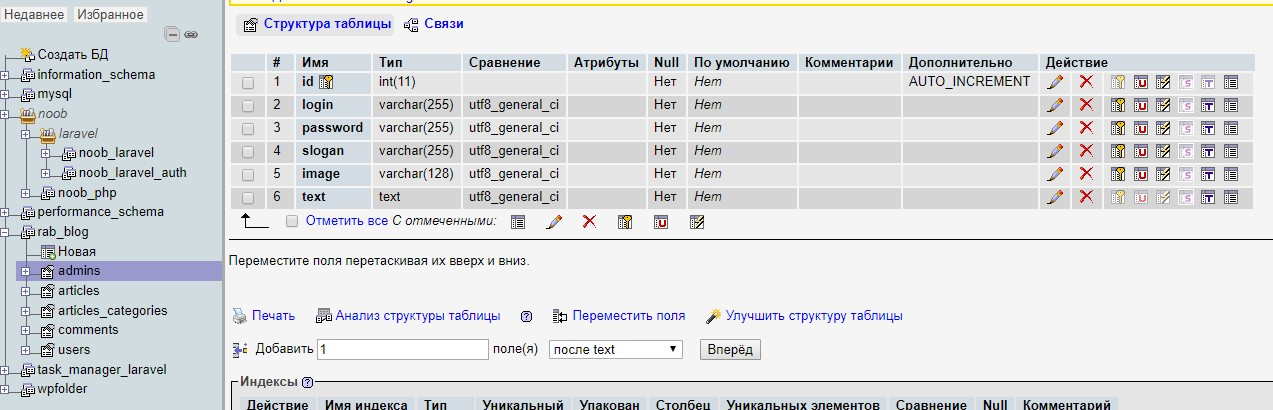
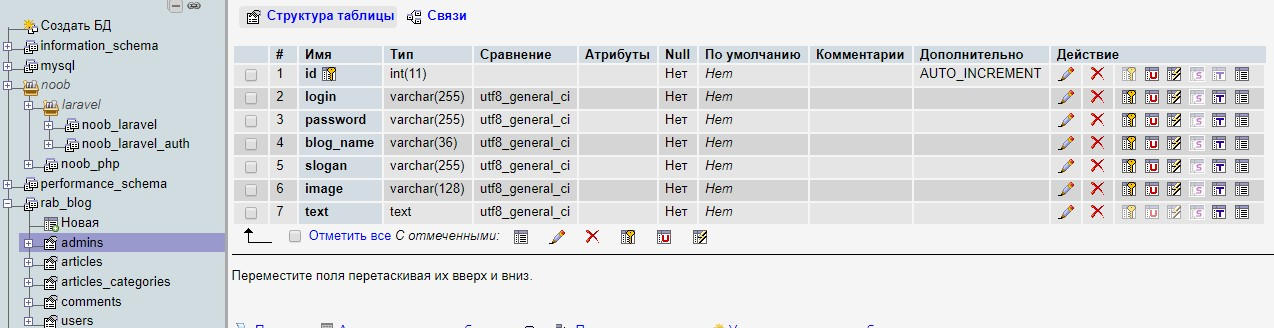
Изменения: - Небольшие изменения, связанные с прохождением процесса валидации html - Появление возможности изменять название блога в панели администратора

Changed region(s): [[0.0, 0.0, 1.0, 1.0], [0.5208, 0.8232, 0.6127, 0.8841]]

diff --git a/media/css/style.css b/media/css/style.css
@@ -163,12 +163,12 @@ body {
   margin-left: 125px;
   padding-left: 21px;
   position: relative}
-  .articles .article .article__info > a {
+  .articles .article .article__info > h3 > a {
     color: black;
     font-size: 18px;
     font-weight: normal;
     text-decoration: none; }
-    .articles .article .article__info > a:hover {
+    .articles .article .article__info > h3 > a:hover {
       border-bottom: 2px solid #333; }
   .articles .article .article__info > .article__info__meta {
     font-size: 14px;

diff --git a/pages/adminp/blogname_change.php b/pages/adminp/blogname_change.php
@@ -1,0 +1,112 @@
+<?php
+
+require "../../includes/config.php";
+
+?>
+
+    <html lang="en">
+    <head>
+        <meta charset="UTF-8">
+        <title>Измненеие названия блога</title>
+
+        <!-- Bootstrap Grid -->
+        <link rel="stylesheet" type="text/css" href="../../media/assets/bootstrap-grid-only/css/grid12.css">
+
+        <!-- Google Fonts -->
+        <link href="https://fonts.googleapis.com/css?family=Roboto:300,400,500,700" rel="stylesheet">
+
+        <!-- Custom -->
+        <link rel="stylesheet" type="text/css" href="../../media/css/style.css">
+        <link rel="stylesheet" type="text/css" href="../../media/css/adminp.css">
+
+
+    </head>
+    <body>
+
+
+
+    </body>
+    </html>
+
+
+<?php
+
+$login=$_SESSION['logged_admin']['login'];
+
+$admin=mysqli_query($connection,"SELECT blog_name FROM admins  WHERE login='$login'");
+
+$adm = mysqli_fetch_assoc($admin);
+
+?>
+
+
+<?php if(isset($_SESSION['logged_admin'])) : ?>
+
+    <a href="adminka.php">&laquo;Назад</a>
+    <h1>Удаление категории</h1>
+    <form class="form form_adminka" method="POST" action="blogname_change.php">
+        <?php
+
+        $data=$_POST;
+
+        if (isset($data['do_post'])) {
+
+
+            $errors = array();
+
+
+            if ($data['blog_name'] == '') {
+                $errors[] = 'Укажите новое название блога!';
+            }
+
+
+
+
+
+
+            if (empty($errors)) {
+
+
+                $t_blog_name=trim($data['blog_name']);
+
+
+                mysqli_query($connection, "UPDATE admins SET blog_name='$t_blog_name' WHERE login='$login'");
+
+
+
+
+                echo '<span style="color: green; font-weight: bold;
+                                                            margin-bottom: 10px; display: block;">Новое название ващего блога - "'.$data['blog_name'].'"</span>';
+
+                ?>
+                <meta http-equiv="refresh" content="1">
+                <?php
+
+            } else {
+                echo '<span style="color: red; font-weight: bold;
+                                                            margin-bottom: 10px; display: block;">' . $errors['0'] . '</span>';
+
+            }
+        }
+
+        ?>
+
+
+        <div class="form__group">
+            <div class="row">
+                <div class="col-md-6">
+                    <input type="text" autocomplete="off" class="form__control" required name="blog_name"
+                           placeholder="Название блога" value="<?php echo $adm['blog_name']; ?>">
+                </div>
+            </div>
+        </div>
+
+        <div class="form__group">
+            <input type="submit" class="form__control" name="do_post" value="Изменить название">
+        </div>
+    </form>
+
+<?php else : ?>
+    <a href="../../pages/adminp/adminka.php">Авторизуйтесь</a>
+    <br>
+<?php endif; ?>

diff --git a/pages/adminp/aboutme_change.php b/pages/adminp/aboutme_change.php
@@ -32,9 +32,9 @@ require "../../includes/config.php";
 <?php
 $login=$_SESSION['logged_admin']['login'];
 
-$article=mysqli_query($connection,"SELECT slogan,image,text FROM admins  WHERE login='$login'");
+$admin=mysqli_query($connection,"SELECT slogan,image,text FROM admins  WHERE login='$login'");
 
-$art = mysqli_fetch_assoc($article);
+$adm = mysqli_fetch_assoc($admin);
 
 ?>
 
@@ -111,7 +111,7 @@ $art = mysqli_fetch_assoc($article);
             <div class="row">
                 <div class="col-md-6">
                     <input type="text" autocomplete="off" class="form__control" required name="title"
-                           placeholder="Ваш девиз" value="<?php echo $art['slogan'] ?>">
+                           placeholder="Ваш девиз" value="<?php echo $adm['slogan'] ?>">
                 </div>
             </div>
         </div>
@@ -120,14 +120,14 @@ $art = mysqli_fetch_assoc($article);
             <div class="row">
                 <div class="col-md-6">
                     <input type="text" autocomplete="off" class="form__control" required name="image"
-                           placeholder="Название изображения c расширением из папки static/images" value="<?php echo $art['image'] ?>">
+                           placeholder="Название изображения c расширением из папки static/images" value="<?php echo $adm['image'] ?>">
                 </div>
             </div>
         </div>
 
         <div class="form__group">
         <textarea name="text" autocomplete="off" required class="form__control area_spec_admin"
-                  placeholder="Напишите людям о себе..."><?php echo $art['text'] ?></textarea>
+                  placeholder="Напишите людям о себе..."><?php echo $adm['text'] ?></textarea>
         </div>
         <div class="form__group">
             <input type="submit" class="form__control" name="do_post" value="Изменить информацию">

diff --git a/includes/sidebar.php b/includes/sidebar.php
@@ -32,7 +32,7 @@
 <div class="block">
     <h3>Мы_знаем</h3>
     <div class="block__content">
-        <script type="text/javascript" src="//ra.revolvermaps.com/0/0/6.js?i=02op3nb0crr&amp;m=7&amp;s=320&amp;c=e63100&amp;cr1=ffffff&amp;f=arial&amp;l=0&amp;bv=90&amp;lx=-420&amp;ly=420&amp;hi=20&amp;he=7&amp;hc=a8ddff&amp;rs=80" async="async"></script>
+        <script  src="//ra.revolvermaps.com/0/0/6.js?i=02op3nb0crr&amp;m=7&amp;s=320&amp;c=e63100&amp;cr1=ffffff&amp;f=arial&amp;l=0&amp;bv=90&amp;lx=-420&amp;ly=420&amp;hi=20&amp;he=7&amp;hc=a8ddff&amp;rs=80" async="async"></script>
     </div>
 </div>
 
@@ -52,7 +52,7 @@
                     <div class="article__image"
                          style="background-image: url(../static/images/<?php echo $art['image']; ?>);"></div>
                     <div class="article__info">
-                        <a href="../pages/article.php?id=<?php echo $art['id']; ?>"><?php echo $art['title'];?></a>
+                        <h3><a href="../pages/article.php?id=<?php echo $art['id']; ?>"><?php echo $art['title'];?></a></h3>
                         <div class="article__info__meta">
                             <?php
                             $art_cat=false;
@@ -97,7 +97,7 @@
                     <div class="article__image"
                          style="background-image: url(https://www.gravatar.com/avatar/<?php echo md5($comment['email']);?>s=125)"></div>
                     <div class="article__info">
-                        <a href="../pages/article.php?id=<?php echo $comment['articles_id']; ?>"><?php echo $comment['nickname'];?></a>
+                        <h3><a href="../pages/article.php?id=<?php echo $comment['articles_id']; ?>"><?php echo $comment['nickname'];?></a></h3>
                         <div class="article__info__meta">
 
 

diff --git a/pages/article.php b/pages/article.php
@@ -67,7 +67,7 @@ include '../static/scripts/main.php';
                                 <a><?php echo $art['views'];?> просмотров</a>
                                 <h3><?php echo $art['title'];?></h3>
                                 <div class="block__content">
-                                    <img class="image_large" src="../static/images/<?php echo $art['image'] ?>">
+                                    <img class="image_large" src="../static/images/<?php echo $art['image'] ?>" alt="Изображение статьи">
                                     <div class="full-text text_simple_article">
                                         <?php echo $art['text'];?>
                                     </div>
@@ -195,7 +195,7 @@ include '../static/scripts/main.php';
                                                 <div class="article__image"
                                                      style="background-image: url(https://www.gravatar.com/avatar/<?php echo md5($comment['email']); ?>s=125)"></div>
                                                 <div class="article__info">
-                                                    <a href="/pages/article.php?id=<?php echo $comment['articles_id']; ?>"><?php echo $comment['nickname']; ?></a>
+                                                    <h3><a href="/pages/article.php?id=<?php echo $comment['articles_id']; ?>"><?php echo $comment['nickname']; ?></a></h3>
                                                     <?php if(isset($_SESSION['logged_admin'])) : ?>
                                                         <div class="comment_time_ago_logadmin">
                                                             <?php echo 'опубликовано ' . showDate(strtotime($comment['pubdate'])) . ''; ?>

diff --git a/includes/head.php b/includes/head.php
@@ -1,5 +1,5 @@
 <!DOCTYPE html>
-<html lang="en">
+<html lang="ru">
 <head>
     <meta charset="UTF-8">
     <meta http-equiv="X-UA-Compatible" content="IE=edge" />
@@ -10,9 +10,9 @@
     <!-- jquery -->
     <script src="//ajax.googleapis.com/ajax/libs/jquery/3.1.0/jquery.min.js"></script>
     <!-- easing plugin ( optional ) -->
-    <script src="../static/libs/totop/easing.js" type="text/javascript"></script>
+    <script src="../static/libs/totop/easing.js" ></script>
     <!-- UItoTop plugin -->
-    <script src="../static/libs/totop/jquery.ui.totop.js" type="text/javascript"></script>
+    <script src="../static/libs/totop/jquery.ui.totop.js" ></script>
 
     <!-- Bootstrap Grid -->
     <link rel="stylesheet" href="//maxcdn.bootstrapcdn.com/bootstrap/3.2.0/css/bootstrap.min.css">
@@ -23,7 +23,7 @@
     <link href="https://fonts.googleapis.com/css?family=Roboto:300,400,500,700" rel="stylesheet">
 
     <!-- Custom -->
-    <script src="../static/scripts/main.js" type="text/javascript"></script>
+    <script src="../static/scripts/main.js" ></script>
 
     <!-- reCAPTCHA -->
     <script src='https://www.google.com/recaptcha/api.js'></script>
@@ -37,7 +37,7 @@
     <link rel="stylesheet" type="text/css" href="../media/css/addition.css">
 
     <!-- AutoToTopScrool -->
-    <link rel="stylesheet" media="screen,projection" href="../static/libs/totop/ui.totop.css" />
+    <link rel="stylesheet" href="../static/libs/totop/ui.totop.css" />
 
     <link rel="icon" type="image/png" href="../media/images/favicon-32x32.png" sizes="32x32" />
     <link rel="icon" type="image/png" href="../media/images/favicon-16x16.png" sizes="16x16" />

diff --git a/index.php b/index.php
@@ -37,7 +37,7 @@ require "includes/head.php";
                             <div class="article__image"
                                  style="background-image: url(static/images/<?php echo $art['image']; ?>);"></div>
                             <div class="article__info">
-                                <a href="pages/article.php?id=<?php echo $art['id']; ?>"><?php echo $art['title'];?></a>
+                                <h3><a href="pages/article.php?id=<?php echo $art['id']; ?>"><?php echo $art['title'];?></a></h3>
                                 <div class="article__info__meta">
                                     <?php
                                     $art_cat=false;
@@ -91,7 +91,7 @@ require "includes/head.php";
                                       <div class="article__image"
                                            style="background-image: url(static/images/<?php echo $art['image']; ?>);"></div>
                                       <div class="article__info">
-                                          <a href="/pages/article.php?id=<?php echo $art['id']; ?>"><?php echo $art['title'];?></a>
+                                          <h3><a href="/pages/article.php?id=<?php echo $art['id']; ?>"><?php echo $art['title'];?></a></h3>
                                           <div class="article__info__meta">
                                               <?php
                                               $art_cat=false;

diff --git a/pages/articles.php b/pages/articles.php
@@ -124,7 +124,7 @@ use JasonGrimes\Paginator;
                                         <div class="article__image"
                                              style="background-image: url(../static/images/<?php echo $art['image']; ?>);"></div>
                                         <div class="article__info">
-                                            <a href="../pages/article.php?id=<?php echo $art['id']; ?>"><?php echo $art['title'];?></a>
+                                            <h3><a href="../pages/article.php?id=<?php echo $art['id']; ?>"><?php echo $art['title'];?></a></h3>
                                             <div class="article__info__meta">
                                                 <?php
                                                 $art_cat=false;

diff --git a/pages/about_me.php b/pages/about_me.php
@@ -30,7 +30,7 @@ $art = mysqli_fetch_assoc($article);
                     <div class="block">
                         <h3>Обо мне</h3>
                         <div class="block__content">
-                            <img class="image_large" src="../static/images/<?php echo $art['image'] ?>">
+                            <img class="image_large" src="../static/images/<?php echo $art['image'] ?>" alt="Обо мне">
 
                             <div class="full-text" align="justify">
                                 <h1><?php echo $art['slogan'] ?></h1>

diff --git a/pages/adminp/adminka.php b/pages/adminp/adminka.php
@@ -36,6 +36,7 @@ require "../../includes/config.php";
         <ul>
             <li><a href="pass_change.php">Смена пароля</a></li>
             <li><a href="aboutme_change.php">Изменение личной информации</a></li>
+            <li><a href="blogname_change.php">Изменение названия блога</a></li>
         </ul>
     <hr width="50%" align="left">
     <h2>Управление категориями</h2>

diff --git a/includes/config.php b/includes/config.php
@@ -17,3 +17,19 @@ session_start();
 
 
 ?>
+
+<?php
+
+//плохо
+$admin=mysqli_query($connection,"SELECT blog_name FROM admins  WHERE login='admin'");
+
+$adm = mysqli_fetch_assoc($admin);
+
+$new_title = array(
+    'title' => $adm['blog_name'],
+);
+
+$config = array_merge($config, $new_title);
+
+?>
+

diff --git a/includes/header.php b/includes/header.php
@@ -82,7 +82,7 @@
 
 </header>
 
-<script type="text/javascript">/*
+<script>/*
     $(document).ready(function() {
         $().UItoTop({ easingType: 'easeOutQuart' });
 
